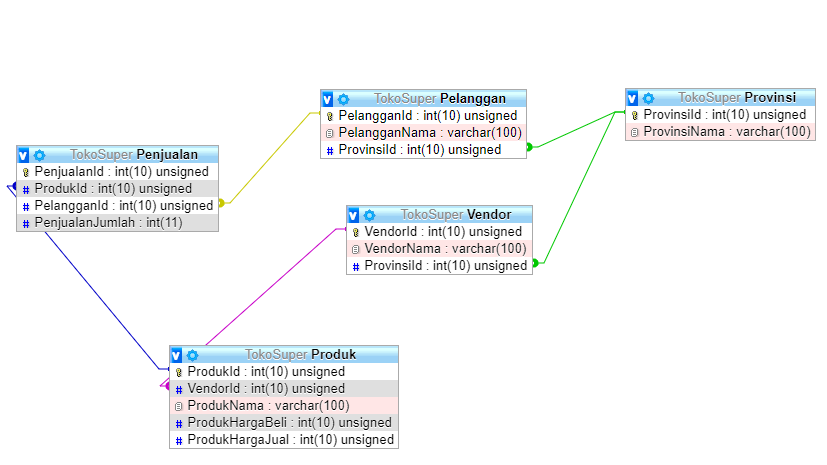
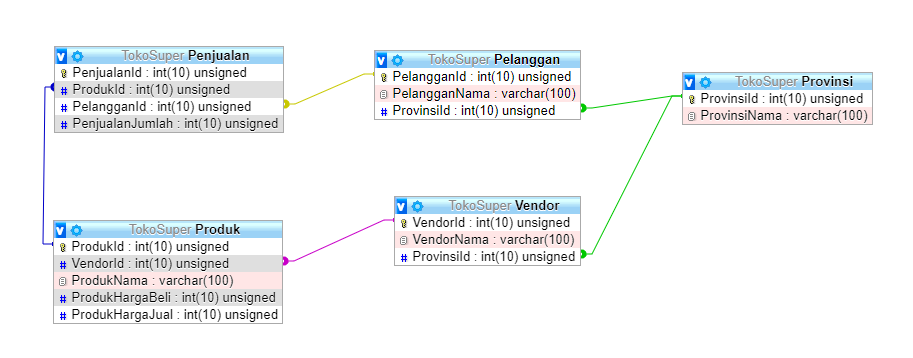
add uml diagram

diff --git a/README.md b/README.md
@@ -6,4 +6,8 @@ Struktur database dibuat dengan manual. Dummy data dibuat secara otomatis menggu
 - sbd-eksplorasi-sqlite.sql -> berisi kueri untuk membuat tabel dan mengisinya dengan dummy data, tested on sqlite3
 - sbd-eksplorasi.sqlite -> database sqlite yang didalamnya sudah terdapat tabel dan dummy data
 
+## Diagram lliveuml
+![diagram-liveuml.png](./diagram-liveuml.png)
+
+## Diagram phpmyadmin
 ![Screenshot.png](./Screenshot.png)
